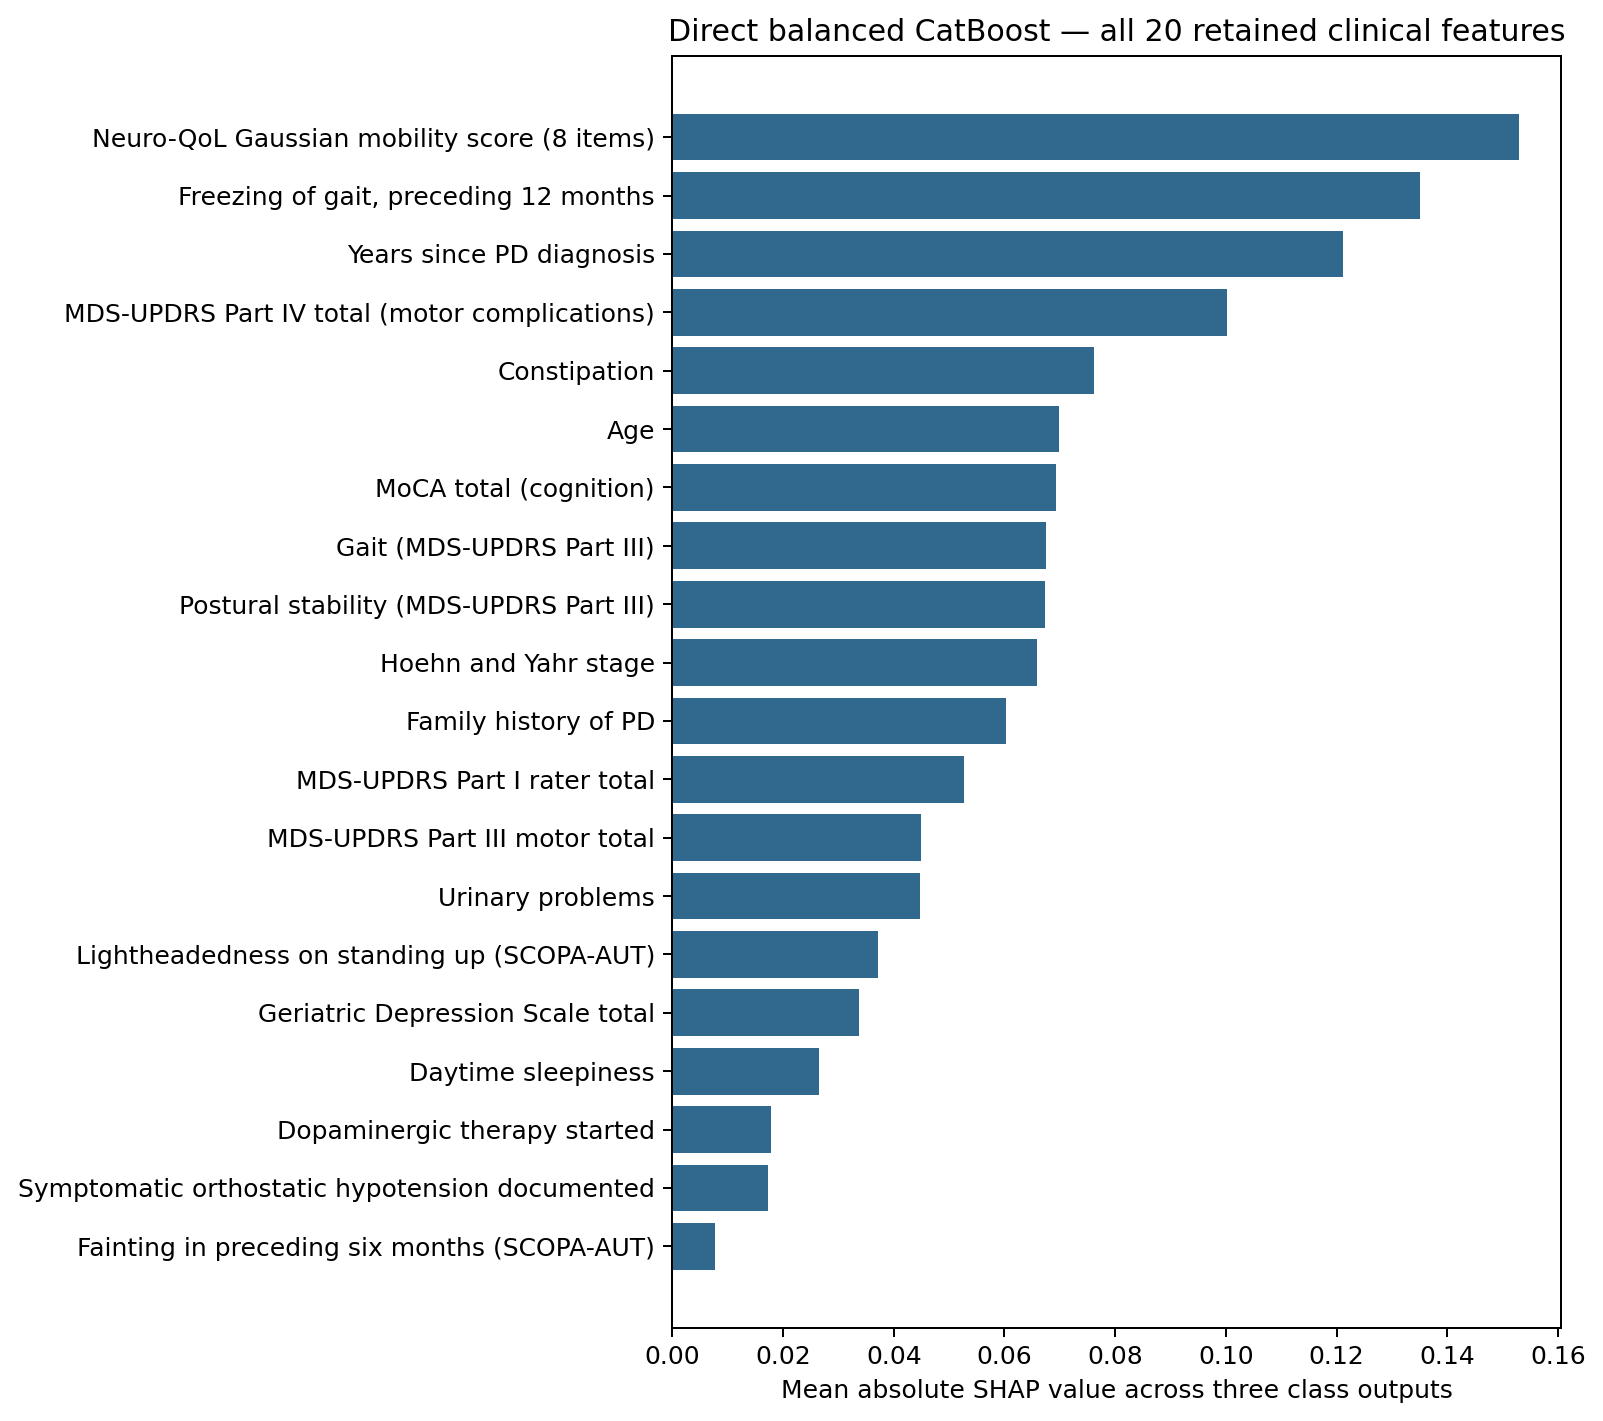
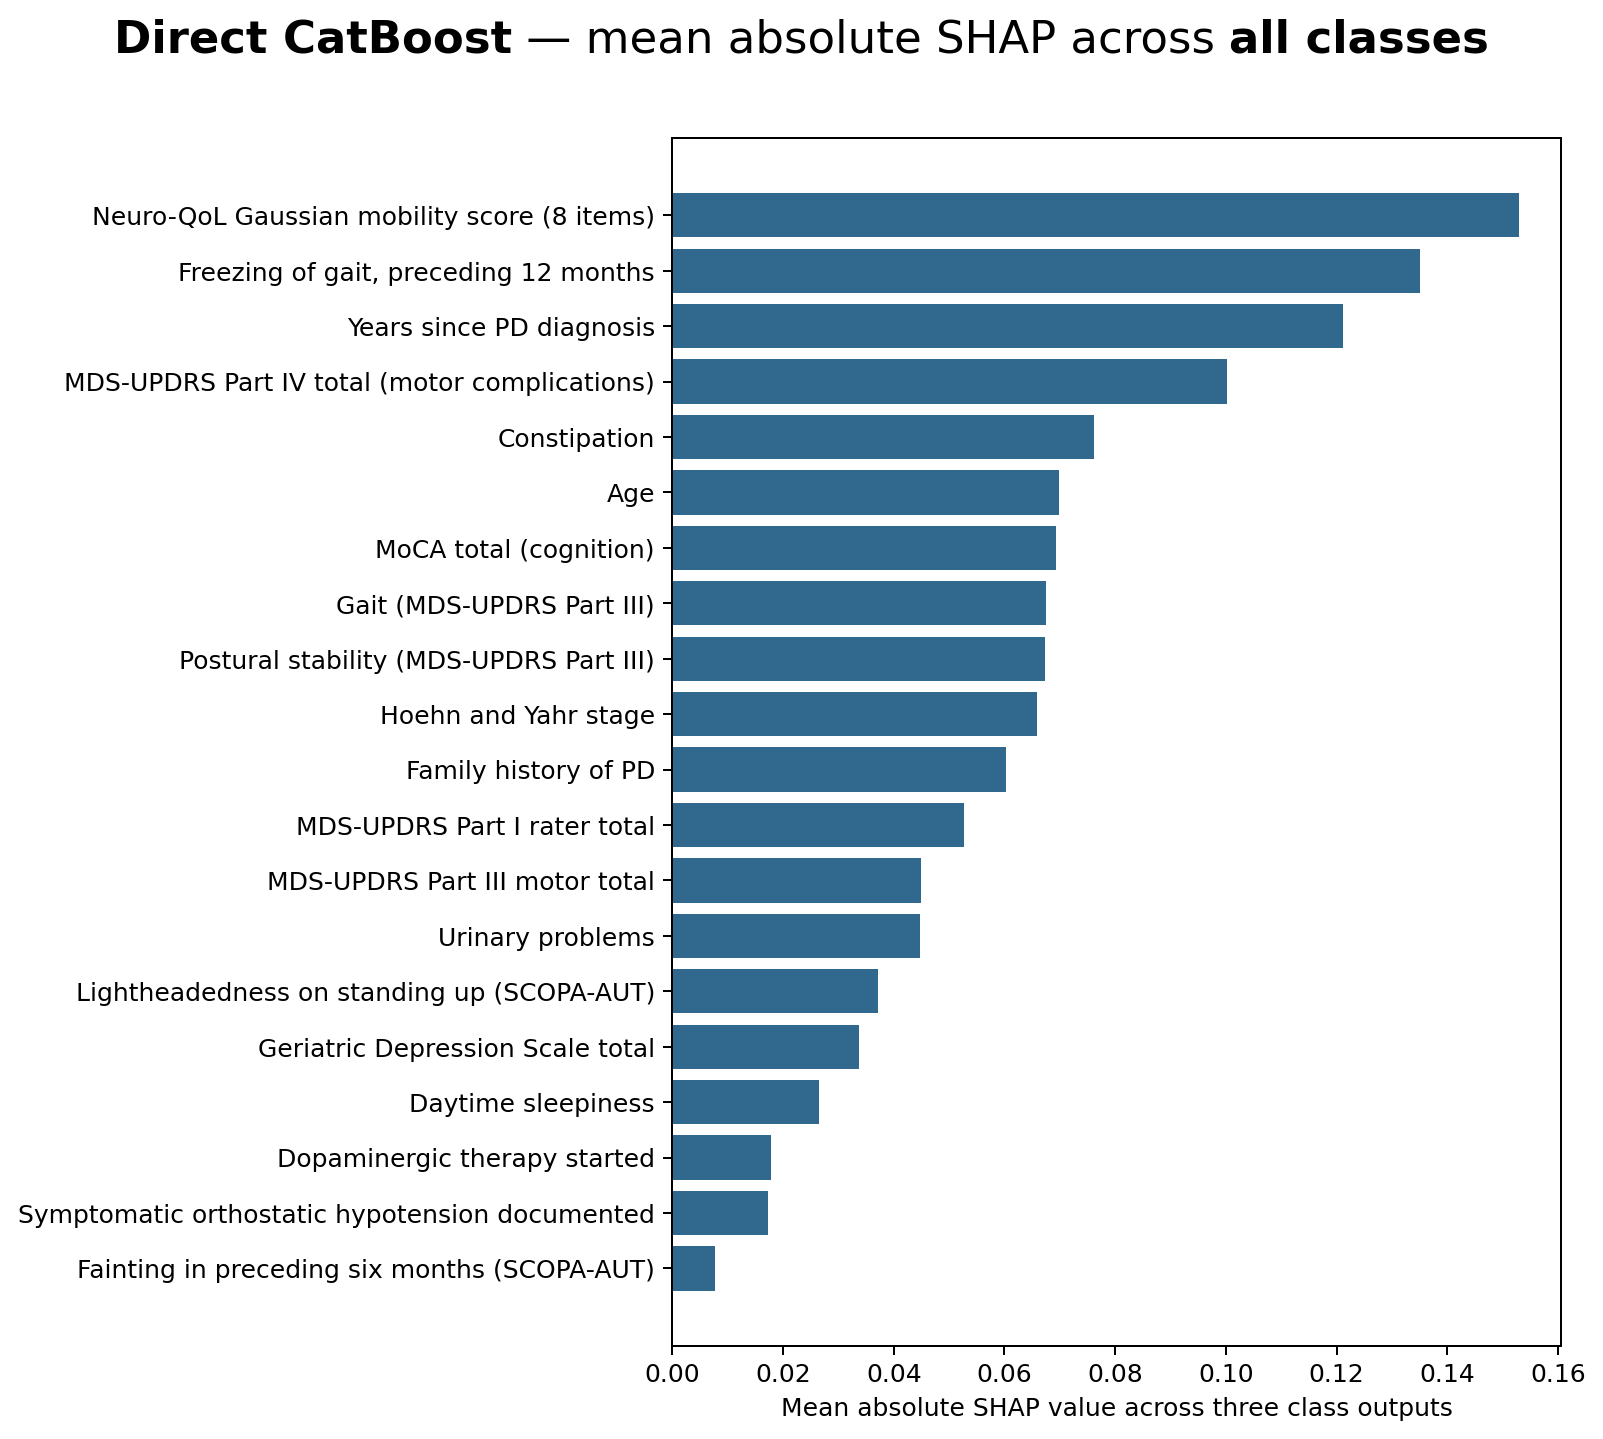
Refine SHAP figure titles

diff --git a/docs/decision_register.md b/docs/decision_register.md
@@ -55,7 +55,7 @@ workflow in `notebooks/04_final_pipeline/06_final_run/`.
 | D26 | Final Notebook 09 reruns the unchanged Notebook 05–07 procedure once on all 1,040 patients. It uses Notebook 03's fold rule (numeric patient order, five stratified folds) with seed 42 and the same stage seed formulas, then refits the direct, Stage 1, and Stage 2 winners with seed 500042. A gate first reruns seed 0's saved outer-training partition and must reproduce the saved Notebook 05, 06, and 07 decisions exactly. Models are saved with `cloudpickle` so they reload without notebook definitions, and a fresh-process reload must reproduce their predictions. Full-cohort selection scores and training-set predictions are not performance estimates. Model files may contain derived patient-level values (for example, SVC support vectors) and remain under PPMI data-use terms. | Final full-cohort artifacts | The 26-feature rerun passed 13/13 checks. The direct artifact is balanced CatBoost with corrected-FDR selection; Stage 1 is balanced Extra Trees with corrected-FDR selection; Stage 2 is unweighted random forest with median-threshold Extra-Trees selection. The three files and verified hashes are recorded in `results/final_pipeline/06_final_fit_and_performance_summary/09_full_cohort_fit/models/model_manifest.json`. |
 | D27 | Final Notebook 10 explains the Notebook 09 models without changing them. Importance is grouped out-of-fold permutation importance: clones of the saved pipelines are refitted on four of the five seed-42 folds, and each source variable (the Neuro-QoL Gaussian score alone, after D28) is shuffled 10 times in the held-out fold. It reports the drop in macro F1 and rare-fall recall for the direct and two-stage systems and each stage. Held-out scoring avoids in-sample inflation from the unlimited-depth Stage 2 forest. It also reports final retention and selection frequency across the 20 Notebook 07 refits. SHAP was not used because `shap` is not installed. Importance is descriptive and non-causal. | Final model interpretation | Completed on the 26-feature run on 25 September 2026; 6/6 checks passed. Direct macro-F1 importance was highest for constipation, freezing, the Neuro-QoL composite, age, and Part III motor total. Two-stage importance was highest for freezing, Part IV complications, and the Neuro-QoL composite. These findings cannot redefine the frozen model. |
 | D28 | **Candidate-set amendment before the final rerun.** The 33-feature universe contained the revision's 8-item Neuro-QoL Gaussian mobility score (`NQ_GAUSSIAN_REVISION`: Gaussian weights centred at 2.5, width 1.2, averaged over the 8 items and multiplied by 8) *and* seven of its own items (`NQMOB37, 30, 26, 32, 33, 31, 28`) as separate candidates. The raw items entered only because the paper-aligned union also included every variable the legacy work screened. The published and revision models used the composite alone. Remove the seven raw items: the primary universe becomes **26 features** (25 paper-aligned variables plus maximum eligible `NP1CNST`). The three Neuro-QoL PCA engineering branches are removed because they compressed those items. The reason is construct redundancy and fidelity to the published representation, not performance. The amended run becomes the primary analysis **regardless of whether its results are better or worse** than the superseded 33-feature run. The Part III total, gait, and postural stability are all kept because the published model used all three; their overlap is documented. Splits, seeds, frozen grids, selection rules, and the five sensitivity definitions are unchanged. The 33-feature results are archived as superseded and disclosed in the final report. | Final candidate universe | Approved 25 September 2026. Notebooks 01–11 are complete on the 26-feature design and passed their saved validation checks. The 33-feature outputs are archived under `results/final_pipeline/superseded_33_feature_run_2026-09-25/`, and the current final report uses only the 26-feature artifacts.  |
-| D29 | Explain the frozen full-cohort direct, Stage 1, and Stage 2 tree models separately with SHAP. Sum encoded-column contributions back to their clinical source groups and verify exact additivity. Do not combine Stage 1 and Stage 2 SHAP values because hard routing is not additive. These explanations cannot select models or estimate performance. Patient-level SHAP arrays and identifiers remain governed PPMI-derived data. Class-specific figures use beeswarms containing every retained clinical group, name the fitted model, and share the `-1.0` to `+1.0` x-axis derived from the largest plotted absolute SHAP value; the direct all-class figure remains a complete magnitude overview. | Final SHAP and LLM handoff | Notebook 12 v3 completed on 29 September 2026; 9/9 checks passed. |
+| D29 | Explain the frozen full-cohort direct, Stage 1, and Stage 2 tree models separately with SHAP. Sum encoded-column contributions back to their clinical source groups and verify exact additivity. Do not combine Stage 1 and Stage 2 SHAP values because hard routing is not additive. These explanations cannot select models or estimate performance. Patient-level SHAP arrays and identifiers remain governed PPMI-derived data. Class-specific figures use beeswarms containing every retained clinical group, share the `-1.0` to `+1.0` x-axis derived from the largest plotted absolute SHAP value, and use centered 18-point titles with bold model-family and output-class names. Weighting labels remain in the configuration documentation instead of the titles; the direct all-class figure remains a complete magnitude overview. | Final SHAP and LLM handoff | Notebook 12 v5 completed on 29 September 2026; 9/9 checks passed. |
 | D30 | Replace the revision-era GitHub export with the final 26-feature workflow. Include Notebooks 01–12, the raw inputs required to reproduce them, validated saved state, final models, synchronized documentation, and the updated LLM handoff. The user confirmed that public sharing of the patient-level handoff artifacts is permitted. Exclude the obsolete ablation report, delta workflow, revision notebooks, and superseded outputs. | Final repository export | Committed and pushed to `main` on 25 September 2026; the replacement commit is `b4e43ac`. |
 
 

diff --git a/docs/final_run/final_results_report.md b/docs/final_run/final_results_report.md
@@ -466,23 +466,23 @@ rounded outward padding. The common range makes spread visually consistent;
 the direct multiclass and two-stage component values still use their own model
 output scales and should not be interpreted as exactly interchangeable units.
 
-**Direct balanced CatBoost: all retained features across all classes**
+**Direct CatBoost: all retained features across all classes**
 
 ![Direct CatBoost all-class SHAP overview](../../results/final_pipeline/08_interpretation_and_reporting/12_shap_and_llm_handoff/shap_summary_direct_all_classes.png)
 
-**Direct balanced CatBoost: contributions toward no fall**
+**Direct CatBoost: contributions toward no fall**
 
 ![Direct CatBoost no-fall SHAP beeswarm](../../results/final_pipeline/08_interpretation_and_reporting/12_shap_and_llm_handoff/shap_summary_direct_no_fall.png)
 
-**Direct balanced CatBoost: contributions toward rare fall**
+**Direct CatBoost: contributions toward rare fall**
 
 ![Direct CatBoost rare-fall SHAP beeswarm](../../results/final_pipeline/08_interpretation_and_reporting/12_shap_and_llm_handoff/shap_summary_direct_rare_fall.png)
 
-**Direct balanced CatBoost: contributions toward recurrent fall**
+**Direct CatBoost: contributions toward recurrent fall**
 
 ![Direct CatBoost recurrent-fall SHAP beeswarm](../../results/final_pipeline/08_interpretation_and_reporting/12_shap_and_llm_handoff/shap_summary_direct_recurrent_fall.png)
 
-**Two-stage Stage 1 balanced Extra Trees: contributions toward any fall**
+**Two-stage Stage 1 Extra Trees: contributions toward any fall**
 
 ![Stage 1 Extra Trees any-fall SHAP beeswarm](../../results/final_pipeline/08_interpretation_and_reporting/12_shap_and_llm_handoff/shap_summary_stage1.png)
 

diff --git a/docs/current_state.md b/docs/current_state.md
@@ -44,12 +44,15 @@ or selecting models. Its results agree with the current final report.
 Notebook 12 explains the frozen direct, Stage 1, and Stage 2 models
 separately, verifies SHAP additivity, and packages grouped clinical
 contributions plus restricted patient-level handoff artifacts. All 9 saved
-checks passed. Its v3 figures retain one all-class direct overview and use
+checks passed. Its v5 figures retain one all-class direct overview and use
 full beeswarms for all three direct classes, Stage 1 any-fall, and Stage 2
 recurrent-fall outputs. All five beeswarms use a shared `-1.0` to `+1.0`
-x-axis range. Every figure names the fitted model and includes all clinical
-groups retained by that model. The methodological limitations are maintained
-separately in `docs/final_run/methodological_limitations.md`.
+x-axis range. Titles are centered across the complete figure at 18 points,
+with the model family and output class in bold. Weighting labels are kept in
+the model-configuration documentation rather than the figure titles. Every
+figure includes all clinical groups retained by that model. The methodological
+limitations are maintained separately in
+`docs/final_run/methodological_limitations.md`.
 
 ## Current evidence
 

diff --git a/docs/final_run/final_run_plan.md b/docs/final_run/final_run_plan.md
@@ -143,7 +143,7 @@ trail; the final export uses the following clean execution order:
 | 09 | `09_full_cohort_fit.ipynb` | Final-run full-cohort fit | Rerun internal selection on all 1,040 patients and fit the seed-42 direct and two-stage artifacts |
 | 10 | `10_model_interpretation.ipynb` | Final-run interpretation | Produce final model explanations and feature summaries without redefining the model |
 | 11 | `11_final_performance_summary.ipynb` | Complete; 7/7 checks passed | Summarize performance, sensitivities, statistical analysis, selected features, and model frequencies |
-| 12 | `12_shap_and_llm_handoff.ipynb` | Complete; 9/9 checks passed | Explain the frozen direct and two-stage components with SHAP on a shared beeswarm x-axis and package the governed LLM handoff artifacts |
+| 12 | `12_shap_and_llm_handoff.ipynb` | Complete; 9/9 checks passed | Explain the frozen direct and two-stage components with SHAP on a shared beeswarm x-axis, use centered emphasized titles, and package the governed LLM handoff artifacts |
 
 All final publication notebooks live together in
 `notebooks/04_final_pipeline/06_final_run/`. Their filenames match the final
